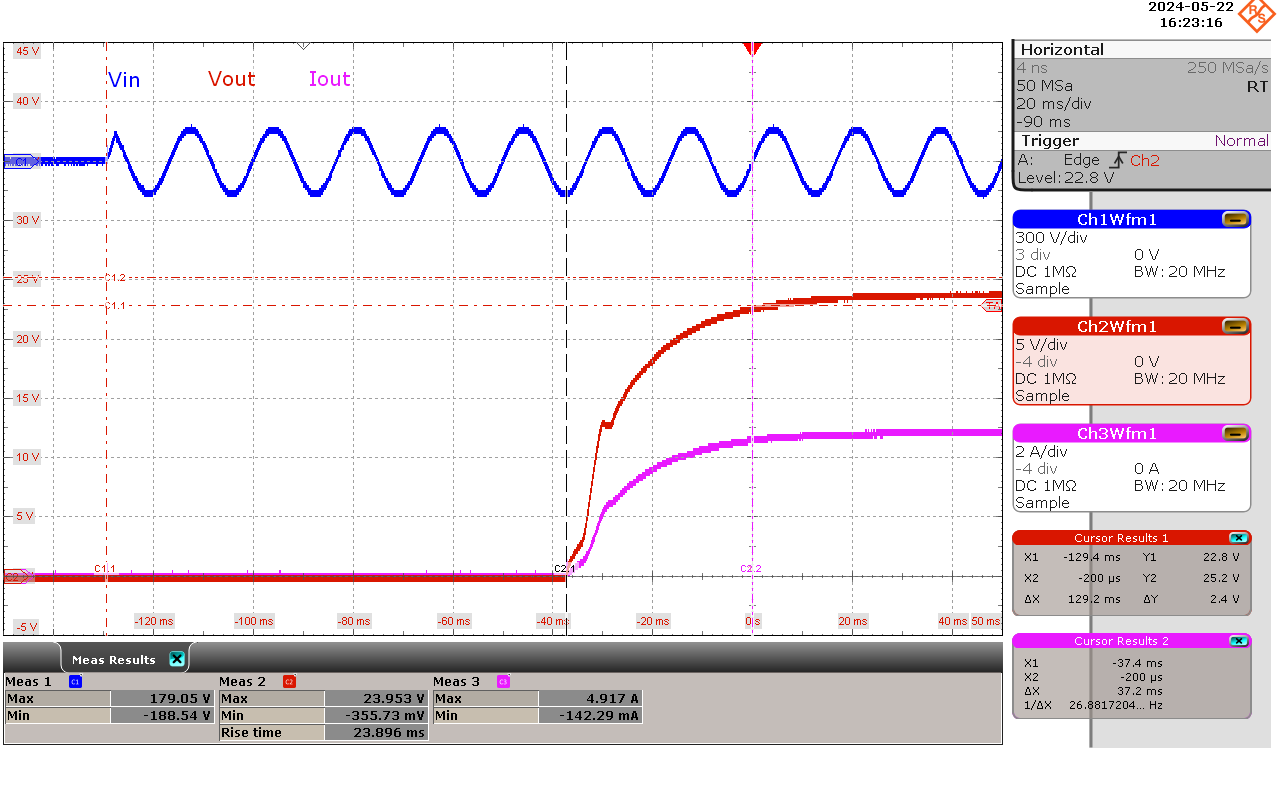
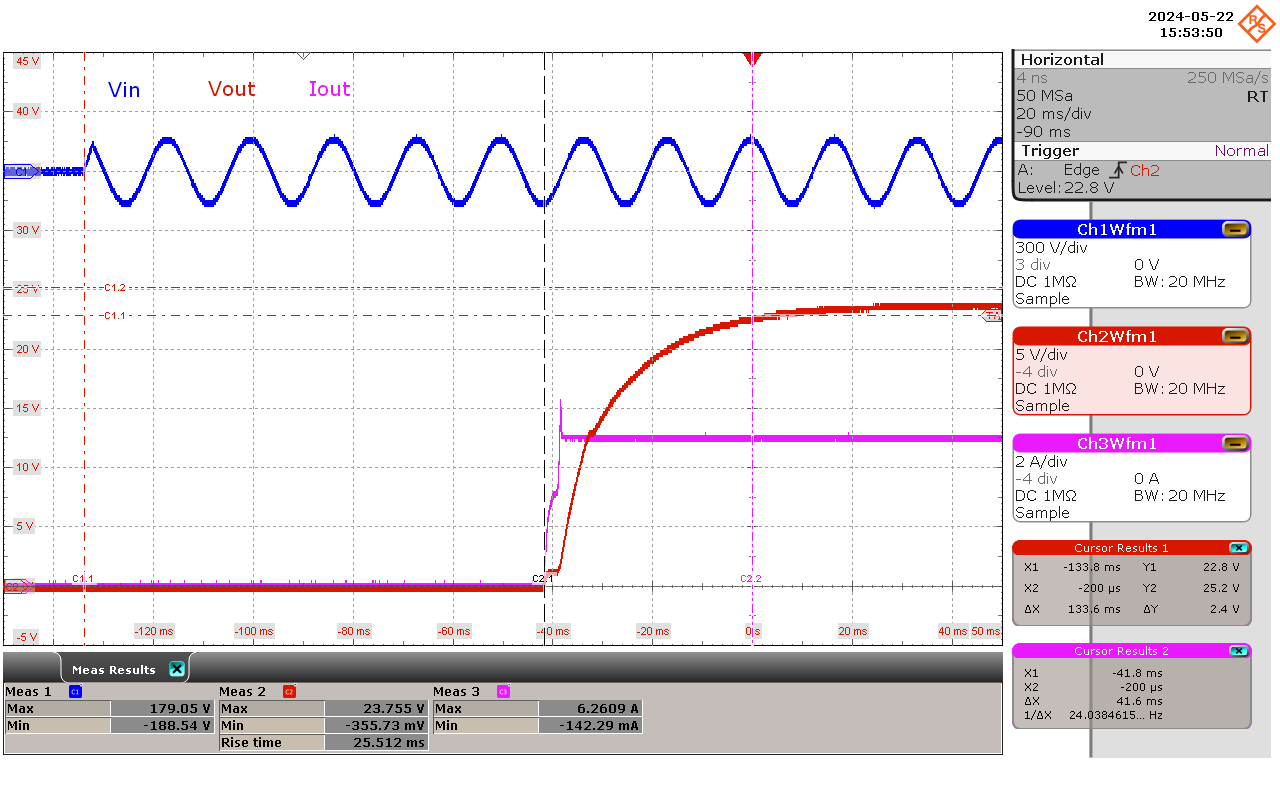
feat: expanded preview for cropping

diff --git a/preview.py b/preview.py
@@ -1,5 +1,6 @@
+from PyQt5 import QtWidgets
 from PyQt5.QtCore import Qt
-from PyQt5.QtGui import QPixmap
+from PyQt5.QtGui import QPixmap, QFont
 import os
 from utils import ensure_directory
 from image_utils import crop_and_save
@@ -70,9 +71,9 @@ def show_file_preview(app):
         app.images_preview_text.setText("PREVIEW")
         return
         
-    # --- Update Preview Label Dynamically ---
+    # --- Update Preview Label Dynamically with instructions ---
     clean_name = item.text(0).replace(" [FOLDER CROPPED]", "").replace(" [IMAGE CROPPED]", "").strip()
-    app.images_preview_text.setText(f"PREVIEW: {clean_name}")
+    app.images_preview_text.setText(f"PREVIEW: {clean_name} ")
 
     current = item
     while current:
@@ -88,3 +89,142 @@ def show_file_preview(app):
     app.lower_input.setText(str(crop['bottom']))
         
     crop_and_update_preview(app)
+
+# ==========================================
+# EXPANDED PREVIEW DIALOG LOGIC
+# ==========================================
+
+class ExpandedPreviewDialog(QtWidgets.QDialog):
+    def __init__(self, main_app, file_path, current_crop, item_name):
+        super().__init__(main_app)
+        self.main_app = main_app
+        self.file_path = file_path
+        self.current_pixmap = None
+        
+        self.setWindowTitle(f"Preview & Crop - {item_name}")
+        self.resize(1000, 800)
+        self.setStyleSheet("background-color: #16161a; color: white;")
+        
+        # Main Layout
+        layout = QtWidgets.QVBoxLayout(self)
+        layout.setContentsMargins(20, 20, 20, 20)
+        
+        # Title Label
+        self.title_label = QtWidgets.QLabel(f"Cropping: {item_name}")
+        self.title_label.setAlignment(Qt.AlignCenter)
+        font = QFont("Arial", 14, QFont.Bold)
+        self.title_label.setFont(font)
+        self.title_label.setStyleSheet("color: #0085ca; margin-bottom: 10px;")
+        layout.addWidget(self.title_label)
+        
+        # Image Display
+        self.image_label = QtWidgets.QLabel()
+        self.image_label.setAlignment(Qt.AlignCenter)
+        self.image_label.setMinimumSize(50, 50)
+        self.image_label.setStyleSheet("background: #0b0b0d; border: 2px solid #3a3a40; border-radius: 8px;")
+        layout.addWidget(self.image_label, 1) # Expanding vertically
+        
+        # Bottom Controls
+        ctrl_layout = QtWidgets.QHBoxLayout()
+        ctrl_layout.setContentsMargins(0, 15, 0, 0)
+        
+        self.inp_top = QtWidgets.QLineEdit(str(current_crop.get('top', 0)))
+        self.inp_bottom = QtWidgets.QLineEdit(str(current_crop.get('bottom', 0)))
+        self.inp_left = QtWidgets.QLineEdit(str(current_crop.get('left', 0)))
+        self.inp_right = QtWidgets.QLineEdit(str(current_crop.get('right', 0)))
+        
+        input_style = "background: #1a1a1e; color: #e0e0e0; border: 1px solid #3a3a40; border-radius: 4px; padding: 5px;"
+        for inp in [self.inp_top, self.inp_bottom, self.inp_left, self.inp_right]:
+            inp.setStyleSheet(input_style)
+            inp.setMaximumWidth(70)
+            inp.setAlignment(Qt.AlignCenter)
+            
+        ctrl_layout.addStretch()
+        ctrl_layout.addWidget(QtWidgets.QLabel("Top:"))
+        ctrl_layout.addWidget(self.inp_top)
+        ctrl_layout.addSpacing(15)
+        ctrl_layout.addWidget(QtWidgets.QLabel("Bottom:"))
+        ctrl_layout.addWidget(self.inp_bottom)
+        ctrl_layout.addSpacing(15)
+        ctrl_layout.addWidget(QtWidgets.QLabel("Left:"))
+        ctrl_layout.addWidget(self.inp_left)
+        ctrl_layout.addSpacing(15)
+        ctrl_layout.addWidget(QtWidgets.QLabel("Right:"))
+        ctrl_layout.addWidget(self.inp_right)
+        ctrl_layout.addSpacing(20)
+        
+        self.btn_crop = QtWidgets.QPushButton("APPLY CROP")
+        self.btn_crop.setStyleSheet("background: #0085ca; color: white; border-radius: 4px; padding: 8px 25px; font-weight: bold;")
+        self.btn_crop.setCursor(Qt.PointingHandCursor)
+        self.btn_crop.clicked.connect(self.apply_crop)
+        ctrl_layout.addWidget(self.btn_crop)
+        ctrl_layout.addStretch()
+        
+        layout.addLayout(ctrl_layout)
+        
+        # Initial Render
+        self.refresh_image(current_crop)
+        
+    def refresh_image(self, crop_dict):
+        # We ensure inputs are integers before saving
+        c_top = int(crop_dict.get('top') or 0)
+        c_bottom = int(crop_dict.get('bottom') or 0)
+        c_left = int(crop_dict.get('left') or 0)
+        c_right = int(crop_dict.get('right') or 0)
+
+        cropped_path = crop_and_save(self.file_path, c_left, c_top, c_right, c_bottom, "temp_preview")
+        if cropped_path:
+            self.current_pixmap = QPixmap(cropped_path)
+            self.update_image_display()
+            
+    def update_image_display(self):
+        """Scales the existing pixmap smoothly when the window resizes, without having to re-crop."""
+        if self.current_pixmap:
+            scaled = self.current_pixmap.scaled(self.image_label.size(), Qt.KeepAspectRatio, Qt.SmoothTransformation)
+            self.image_label.setPixmap(scaled)
+            
+    def apply_crop(self):
+        # 1. Sync values back to main window line edits
+        self.main_app.upper_input.setText(self.inp_top.text() or '0')
+        self.main_app.lower_input.setText(self.inp_bottom.text() or '0')
+        self.main_app.left_input.setText(self.inp_left.text() or '0')
+        self.main_app.right_input.setText(self.inp_right.text() or '0')
+        
+        # 2. Trigger the main app's save function (updates trees & main preview)
+        self.main_app.save_crop_to_selected()
+        
+        # 3. Refresh our local high-res image
+        crop_dict = {
+            'top': self.inp_top.text(), 'bottom': self.inp_bottom.text(),
+            'left': self.inp_left.text(), 'right': self.inp_right.text()
+        }
+        self.refresh_image(crop_dict)
+
+    def resizeEvent(self, event):
+        super().resizeEvent(event)
+        self.update_image_display()
+
+def open_expanded_preview(app):
+    wave_items = app.waveform_tree.selectedItems()
+    perf_items = app.performance_tree.selectedItems()
+    
+    item = None
+    if wave_items: item = wave_items[0]
+    elif perf_items: item = perf_items[0]
+    
+    if not item: return
+    
+    file_path = None
+    is_folder = item.data(0, Qt.UserRole + 2) == "folder"
+    if is_folder:
+        file_path = _get_first_image_path(item)
+    else:
+        file_path = item.data(0, Qt.UserRole + 1)
+        
+    if not file_path or not os.path.exists(file_path): return
+    
+    clean_name = item.text(0).replace(" [FOLDER CROPPED]", "").replace(" [IMAGE CROPPED]", "").strip()
+    crop = get_ui_crop_values(app)
+    
+    dialog = ExpandedPreviewDialog(app, file_path, crop, clean_name)
+    dialog.exec_()

diff --git a/app.py b/app.py
@@ -12,7 +12,7 @@ from handlers import (
 )
 from document_handler import generate_document
 from utils import get_resource_path
-from preview import show_file_preview, crop_and_update_preview
+from preview import show_file_preview, crop_and_update_preview, open_expanded_preview
 from list_updater import (
     update_performance_tree, update_waveform_tree,
     capture_wave_state, capture_perf_state,
@@ -55,9 +55,10 @@ class DocuApp(QtWidgets.QMainWindow):
         self.crop_button.clicked.connect(self.save_crop_to_selected)
         self.generate_document_button.clicked.connect(lambda: generate_document(self))
 
-        # Default state: Performance Data tab is open, so disable Crop button initially
-        self.crop_button.setEnabled(False)
-        self.crop_button.setStyleSheet("background-color: #3a3a40; color: #777777;")
+        # --- PREVIEW CLICK LOGIC ---
+        self.file_view.installEventFilter(self)
+        self.file_view.setCursor(Qt.PointingHandCursor)
+        self.file_view.setToolTip("Double-click to expand and edit")
 
         # --- UNIFIED TREE SETUP ---
         for tree in [self.performance_tree, self.waveform_tree]:
@@ -69,7 +70,6 @@ class DocuApp(QtWidgets.QMainWindow):
             tree.setSelectionMode(QtWidgets.QAbstractItemView.ExtendedSelection)
             tree.setEditTriggers(QtWidgets.QAbstractItemView.DoubleClicked | QtWidgets.QAbstractItemView.EditKeyPressed)
             
-            # Allow smooth scrolling when dragging an item near the top/bottom edges
             tree.setAutoScroll(True)
             tree.setAutoScrollMargin(35)
             tree.setVerticalScrollMode(QtWidgets.QAbstractItemView.ScrollPerPixel)
@@ -91,6 +91,12 @@ class DocuApp(QtWidgets.QMainWindow):
 
         self.waveforms_path.editingFinished.connect(lambda: update_waveform_tree(self))
         self.populate_templates_dropdown()
+
+    def eventFilter(self, source, event):
+        if source == self.file_view and event.type() == QtCore.QEvent.MouseButtonDblClick:
+            open_expanded_preview(self)
+            return True
+        return super(DocuApp, self).eventFilter(source, event)
 
     # --- PHYSICAL DRAG AND DROP (RELOCATION) ---
     def custom_drop_event(self, event, tree_widget, original_event_call):
@@ -169,7 +175,6 @@ class DocuApp(QtWidgets.QMainWindow):
         
         original_ui_name = item.data(0, Qt.UserRole + 6)
         
-        # Safely strip any crop tag
         new_display_name = item.text(0).replace(" [FOLDER CROPPED]", "").replace(" [IMAGE CROPPED]", "").strip()
         
         if new_display_name == original_ui_name: return
@@ -359,14 +364,6 @@ class DocuApp(QtWidgets.QMainWindow):
         width = self.stackedWidget.width()
         height = self.stackedWidget.height()
         offset_x = width if self.stackedWidget.currentIndex() < index else -width
-
-        # Toggle Crop Button visibility based on tab
-        if index == 0:
-            self.crop_button.setEnabled(False)
-            self.crop_button.setStyleSheet("background-color: #3a3a40; color: #777777;")
-        else:
-            self.crop_button.setEnabled(True)
-            self.crop_button.setStyleSheet("")
 
         next_widget.setGeometry(0, 0, width, height)
         next_widget.move(offset_x, 0)
